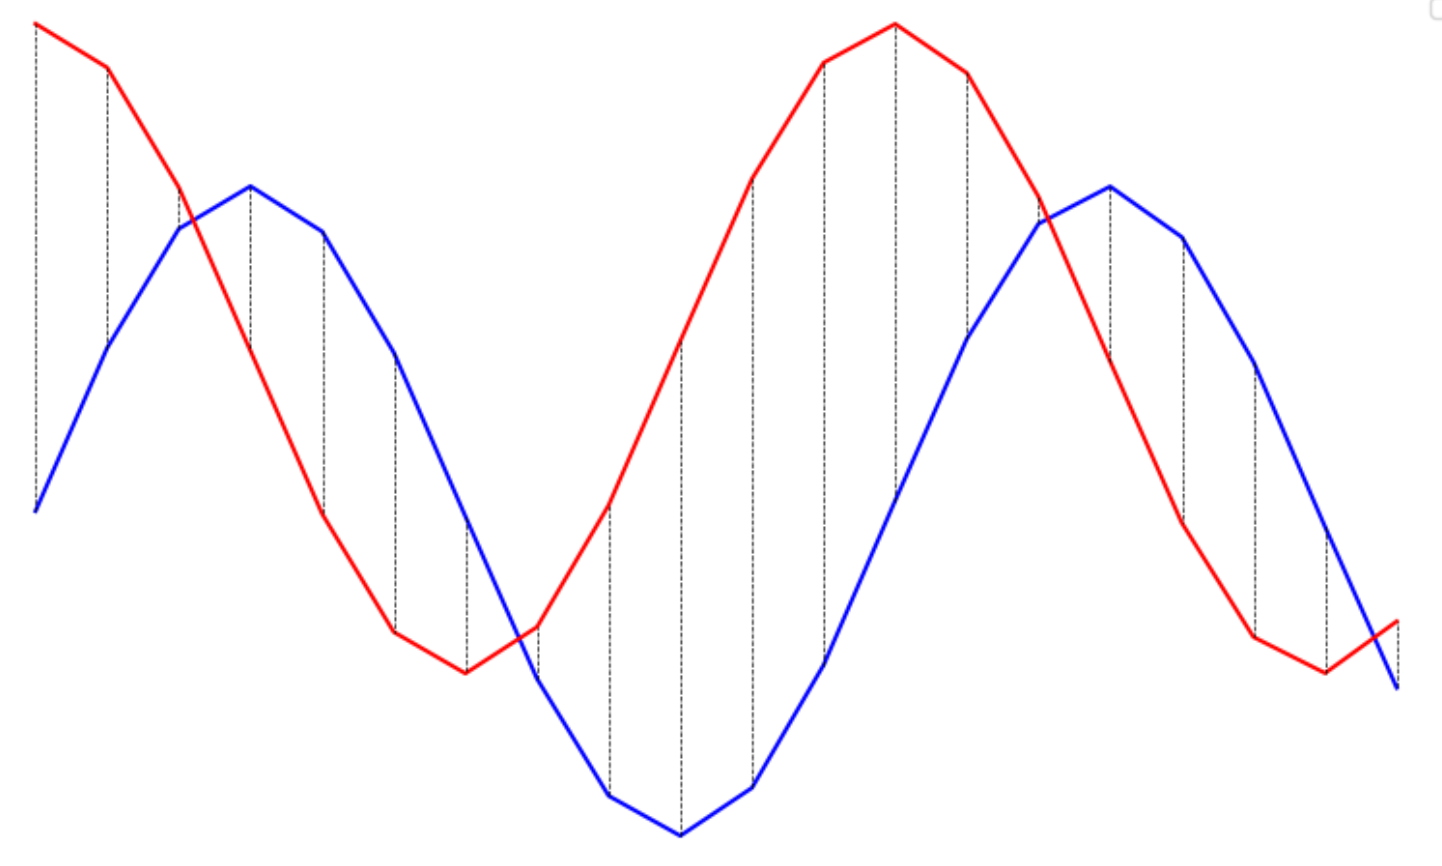
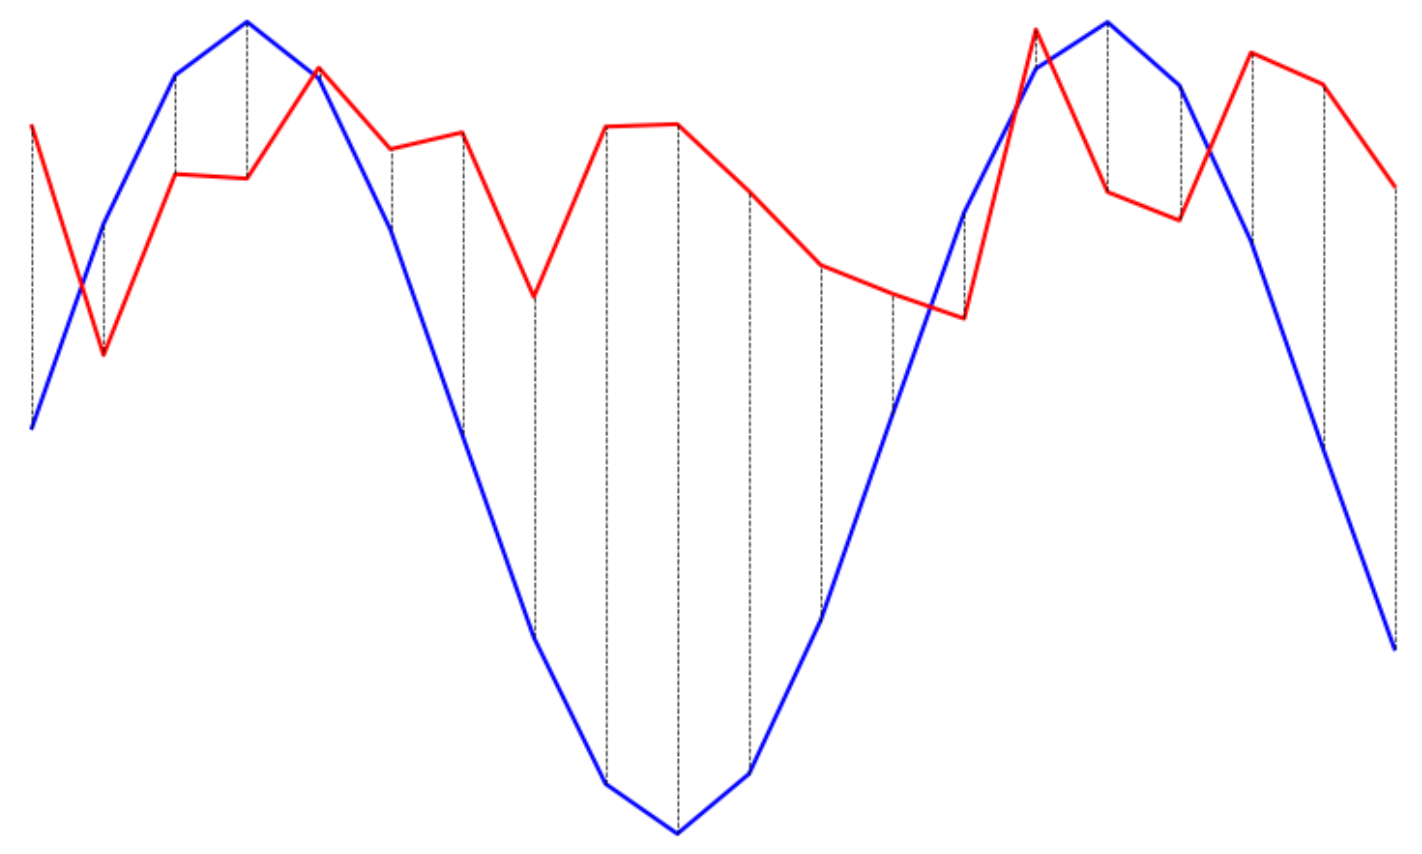
improve images

diff --git a/img/distance.py b/img/distance.py
@@ -9,7 +9,7 @@ series_A = np.sin(time)
 # small distance
 series_B = np.sin(time - 0.001) + 0.5  # Adjust the equation for Time Series B
 # big distance - uncomment to generate
-#series_B = np.cos(time - 0.001) + 0.5  # Adjust the equation for Time Series B
+#series_B = np.random.random(series_A.size)
 
 # Calculate Euclidean distances
 euclidean_distances = np.sqrt((series_A - series_B) ** 2)
